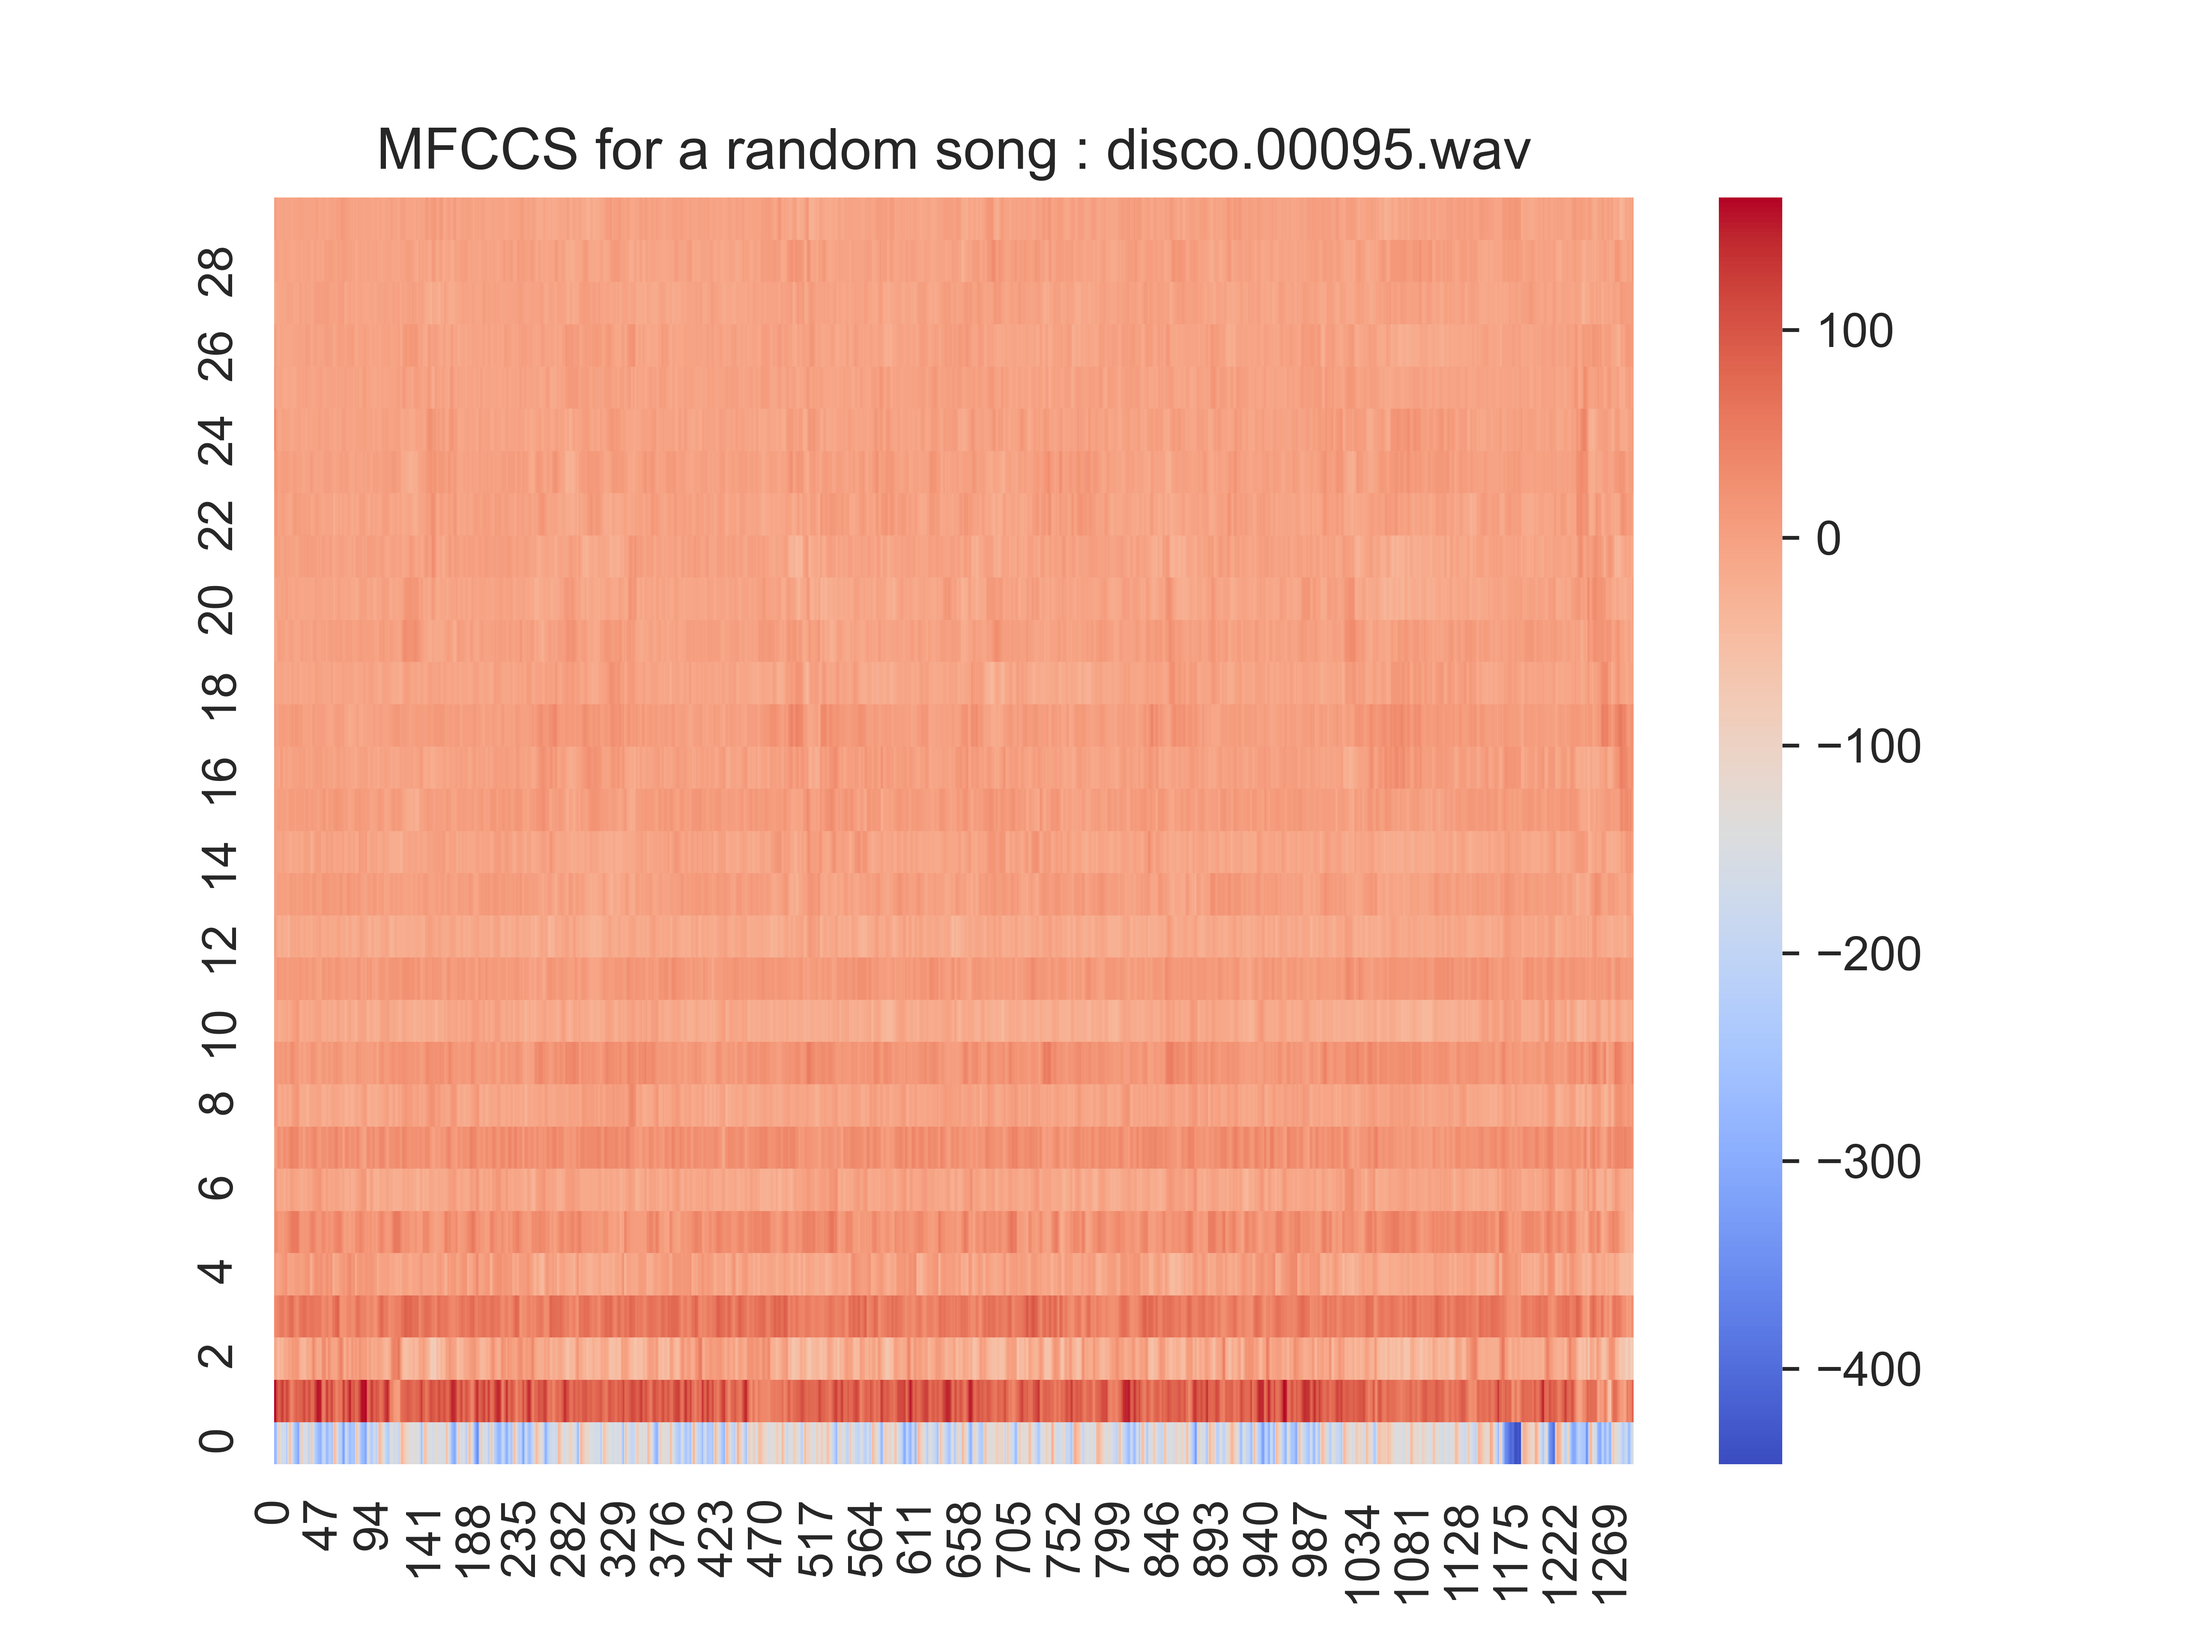
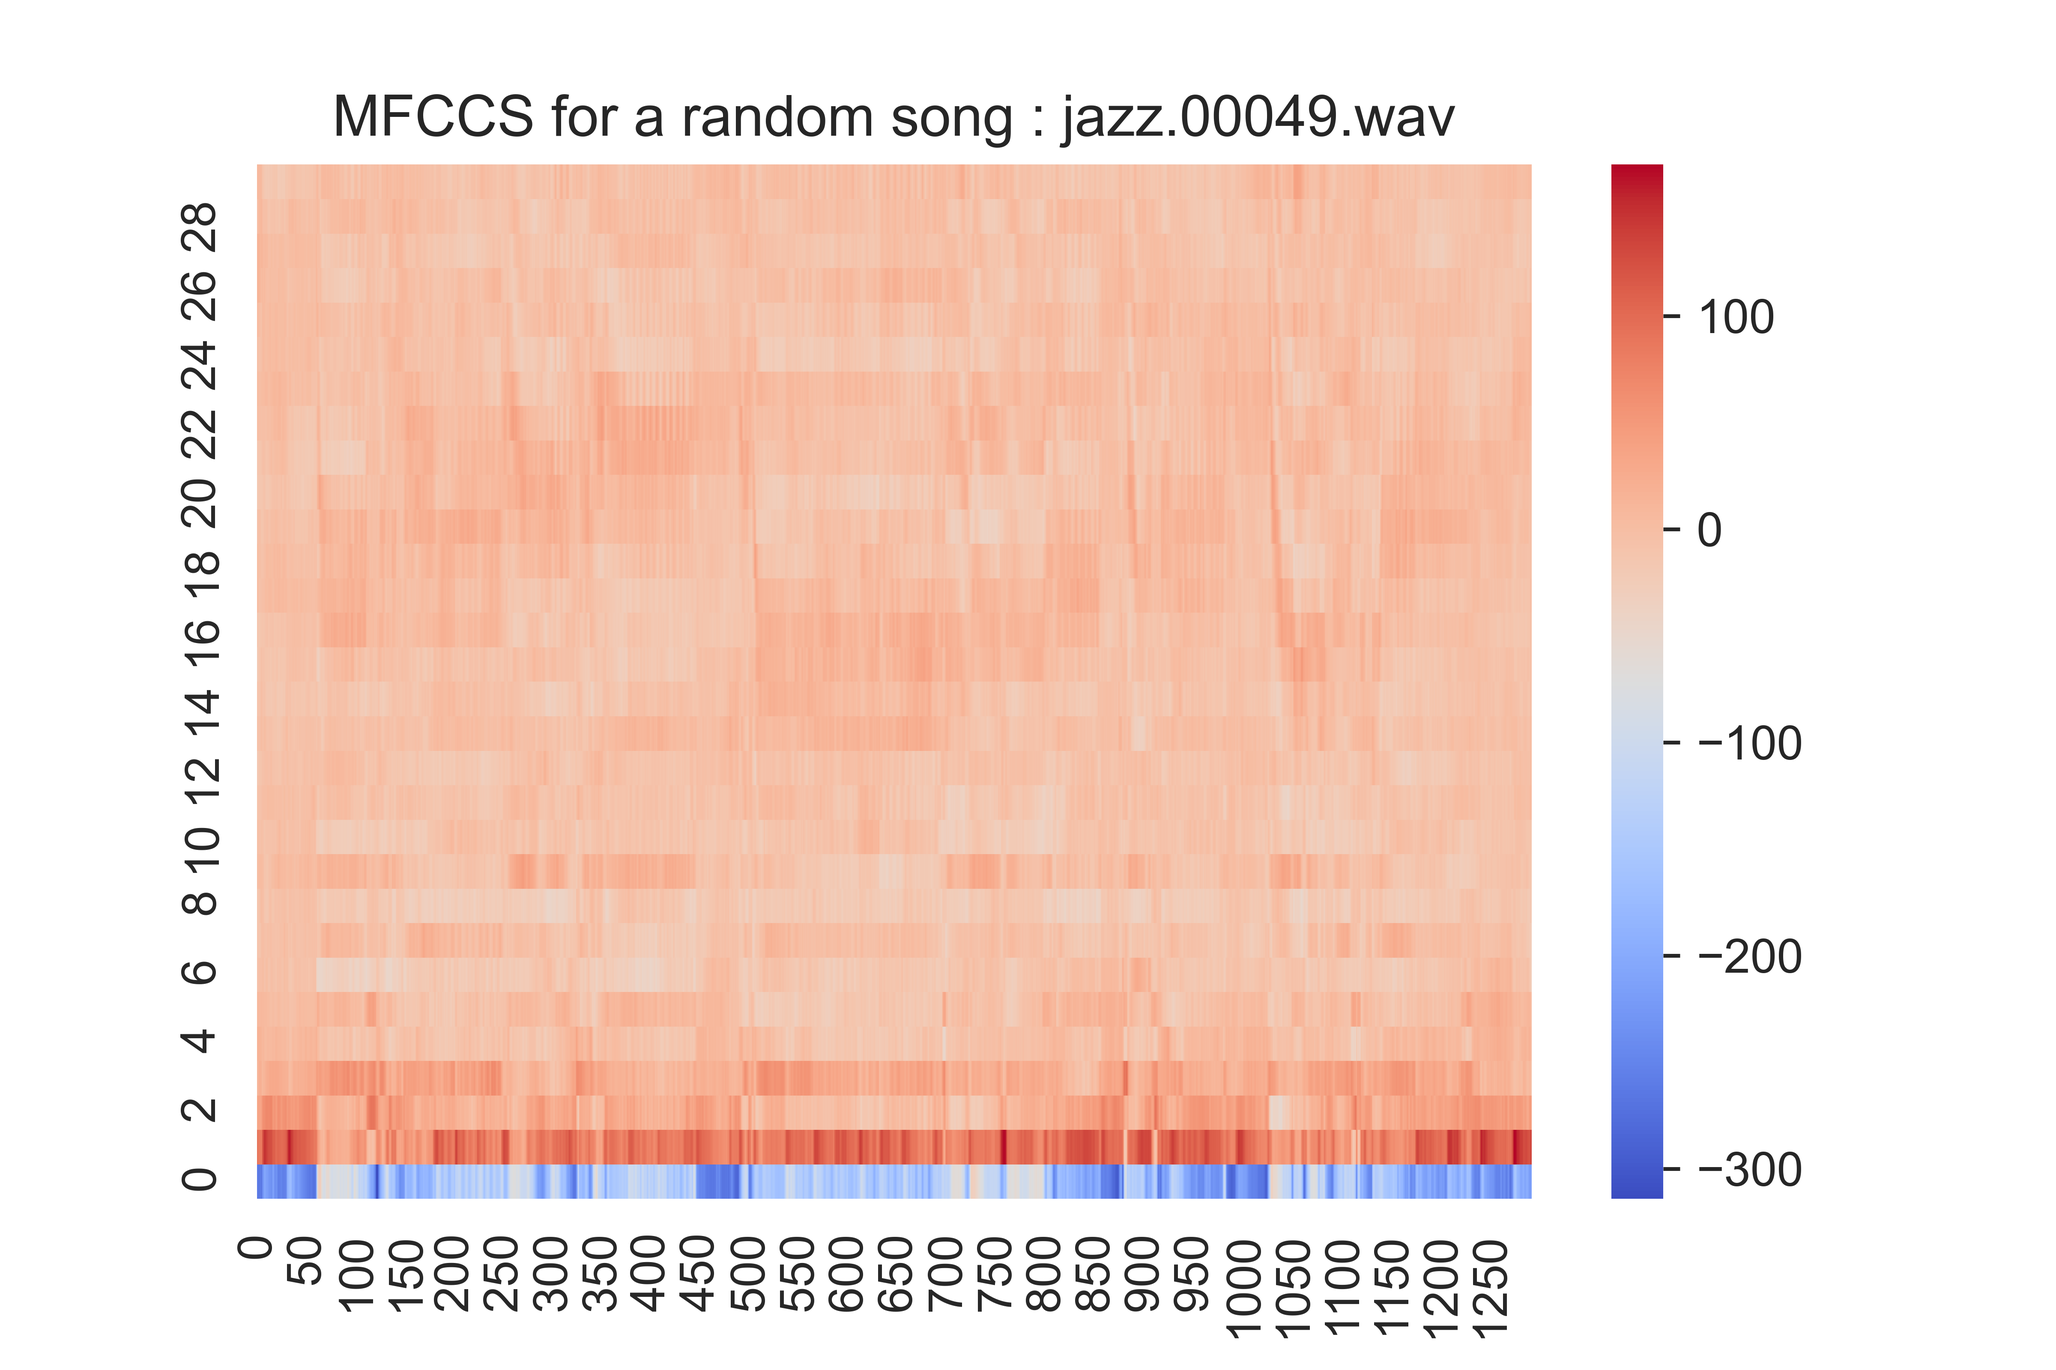
02022021

diff --git a/00_Preprocess_Music_2.py b/00_Preprocess_Music_2.py
@@ -52,11 +52,16 @@ for i in range(len(paths_df)):
 
 #%%
 # Dataframe des mfccs
+n_mfcc = 30
+
 mfccs = []
 for path, amplitude in amplitudes_allsongs.items():
     print('track {}'.format(path))
-    mfcc = librosa.feature.mfcc(y=amplitude, sr = 22050)
-    mfccs.append([path, mfcc])
+    s = path.split('\\')[2]
+    s = s.replace('.wav','')
+    mfcc = librosa.feature.mfcc(y=amplitude, sr = 22050, n_mfcc=n_mfcc)
+    mfccs.append([s, mfcc])
+    print(np.mean(mfcc))
 df_mfcc = pd.DataFrame(mfccs, columns=['path','mfccs'])
 
 # %%
@@ -64,8 +69,10 @@ df_mfcc = pd.DataFrame(mfccs, columns=['path','mfccs'])
 chromas = []
 for path, amplitude in amplitudes_allsongs.items():
     print('track {}'.format(path))
+    s = path.split('\\')[2]
+    s = s.replace('.wav','')
     chroma = librosa.feature.chroma_stft(y=amplitude, sr=22050)
-    chromas.append([path, chroma])
+    chromas.append([s, chroma])
 df_chroma = pd.DataFrame(chromas, columns=['path','chromas'])
 
 #%%
@@ -73,23 +80,21 @@ df_chroma = pd.DataFrame(chromas, columns=['path','chromas'])
 tempos = []
 for path, amplitude in amplitudes_allsongs.items():
     print('track {}'.format(path))
+    s = path.split('\\')[2]
+    s = s.replace('.wav','')
     tempo = librosa.beat.tempo(y=amplitude, sr=22050)
-    tempos.append([path, float(tempo)])
+    tempos.append([s, float(tempo)])
 df_tempo = pd.DataFrame(tempos, columns=['path','tempos'])
 
 #%%
-# Création d'un dossier avec tous les chromagram
-if not os.path.exists('C:/Users/lilia/OneDrive/Documents\GitHub/ML_Python-Music_Classification/Chromas'):
-    os.mkdir('C:/Users/lilia/OneDrive/Documents\GitHub/ML_Python-Music_Classification/Chromas')
-    
-for track in df_chroma.itertuples():
-    s = track.path.split('\\')[2]
-    s = s.replace('.wav','')
-    fig, ax = plt.subplots()
-    img = librosa.display.specshow(track.chromas, y_axis='chroma', x_axis='time', ax=ax)
-    fig.colorbar(img, ax=ax)
-    ax.set(title='Chromagram')
-    fig.savefig('Chromas/{}.png'.format(s),format='png')
-    plt.close(fig)
+mean_mfccs = {}
+for track in df_mfcc.itertuples():
+    mean = []
+    for i in range(n_mfcc):
+        print('{}/{}'.format(i, n_mfcc))
+        mean.append(np.mean(track.mfccs[i,:]))
+    mean_mfccs[track.path] = mean
+
+mean_mfccs = pd.DataFrame(mean_mfccs).transpose()
 
 #%%

diff --git a/00_Preprocess_Music.py b/00_Preprocess_Music.py
@@ -19,7 +19,8 @@ sns.set_style("darkgrid",rc={'figure.figsize':(10,5)})
 
 # %% Folder path
 
-folder_path = '/Users/erwanrahis/Documents/Cours/MS/S1/Machine_Learning_Python/genres.nosync'
+#folder_path = '/Users/erwanrahis/Documents/Cours/MS/S1/Machine_Learning_Python/genres.nosync'
+folder_path = 'C:/Users/lilia/OneDrive/Documents/archive/Data/genres_original'
 
 
 # %% Get the data 
@@ -42,7 +43,8 @@ paths_df = pd.DataFrame({'genre': genre_Y, 'file_path': file_X})
 amplitudes_allsongs = {} 
 for i in range(len(paths_df)):
     print('track {}/{}'.format(i, len(paths_df)))
-    paths_df.loc[i, 'song_ID'] = paths_df.loc[i, 'file_path'].split('/')[-1]
+    paths_df.loc[i, 'song_ID'] = paths_df.loc[i, 'file_path'].split('\\')[-1]
+    #paths_df.loc[i, 'song_ID'] = paths_df.loc[i, 'file_path'].split('/')[-1]
     path_temp = paths_df.loc[i,'file_path']
     amplitude_temp, samplingrate = librosa.load(path_temp)
     amplitudes_allsongs[paths_df.loc[i, 'song_ID']] = amplitude_temp
